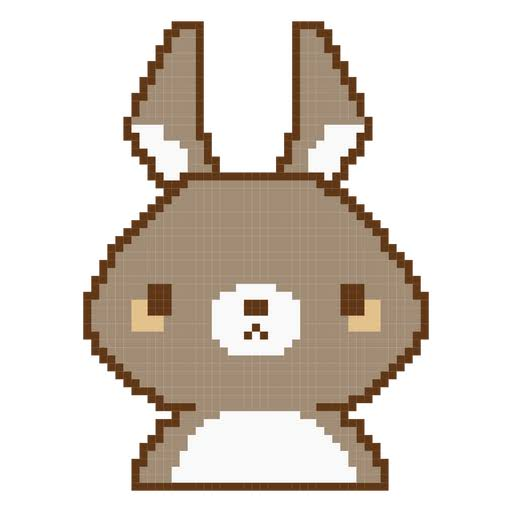
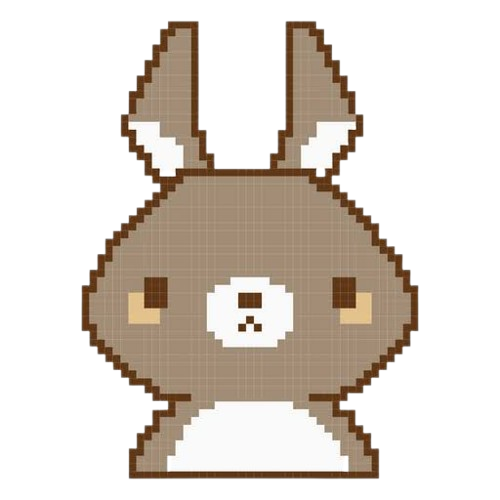
improve the UI/UX

diff --git a/eod-report/src/components/report/ReportForm.jsx b/eod-report/src/components/report/ReportForm.jsx
@@ -1,6 +1,5 @@
 import { useState, useEffect, useRef } from 'react'
 import { Calendar, Checkmark } from '../icons'
-import { CornerDeco } from '../illustrations'
 import notesBg from '../../assets/images.png'
 import TaskList from './TaskList'
 import TotalHours from './TotalHours'
@@ -215,9 +214,6 @@ export default function ReportForm({ initialReport, onSave, onClearLoad, author,
   return (
     <div className="space-y-5">
       <div className="relative bg-white rounded-2xl shadow-sm border border-stone-200 p-5 space-y-5 hover:shadow-md hover:-translate-y-0.5 transition-all duration-200">
-        <div className="absolute top-0 left-0 right-0 pointer-events-none">
-          <CornerDeco className="w-full h-10" />
-        </div>
         <div className="space-y-1.5">
           <label className="flex items-center gap-1.5 text-xs font-semibold text-gray-500 uppercase tracking-wider">
             <Calendar className="w-3.5 h-3.5 text-indigo-500" />
